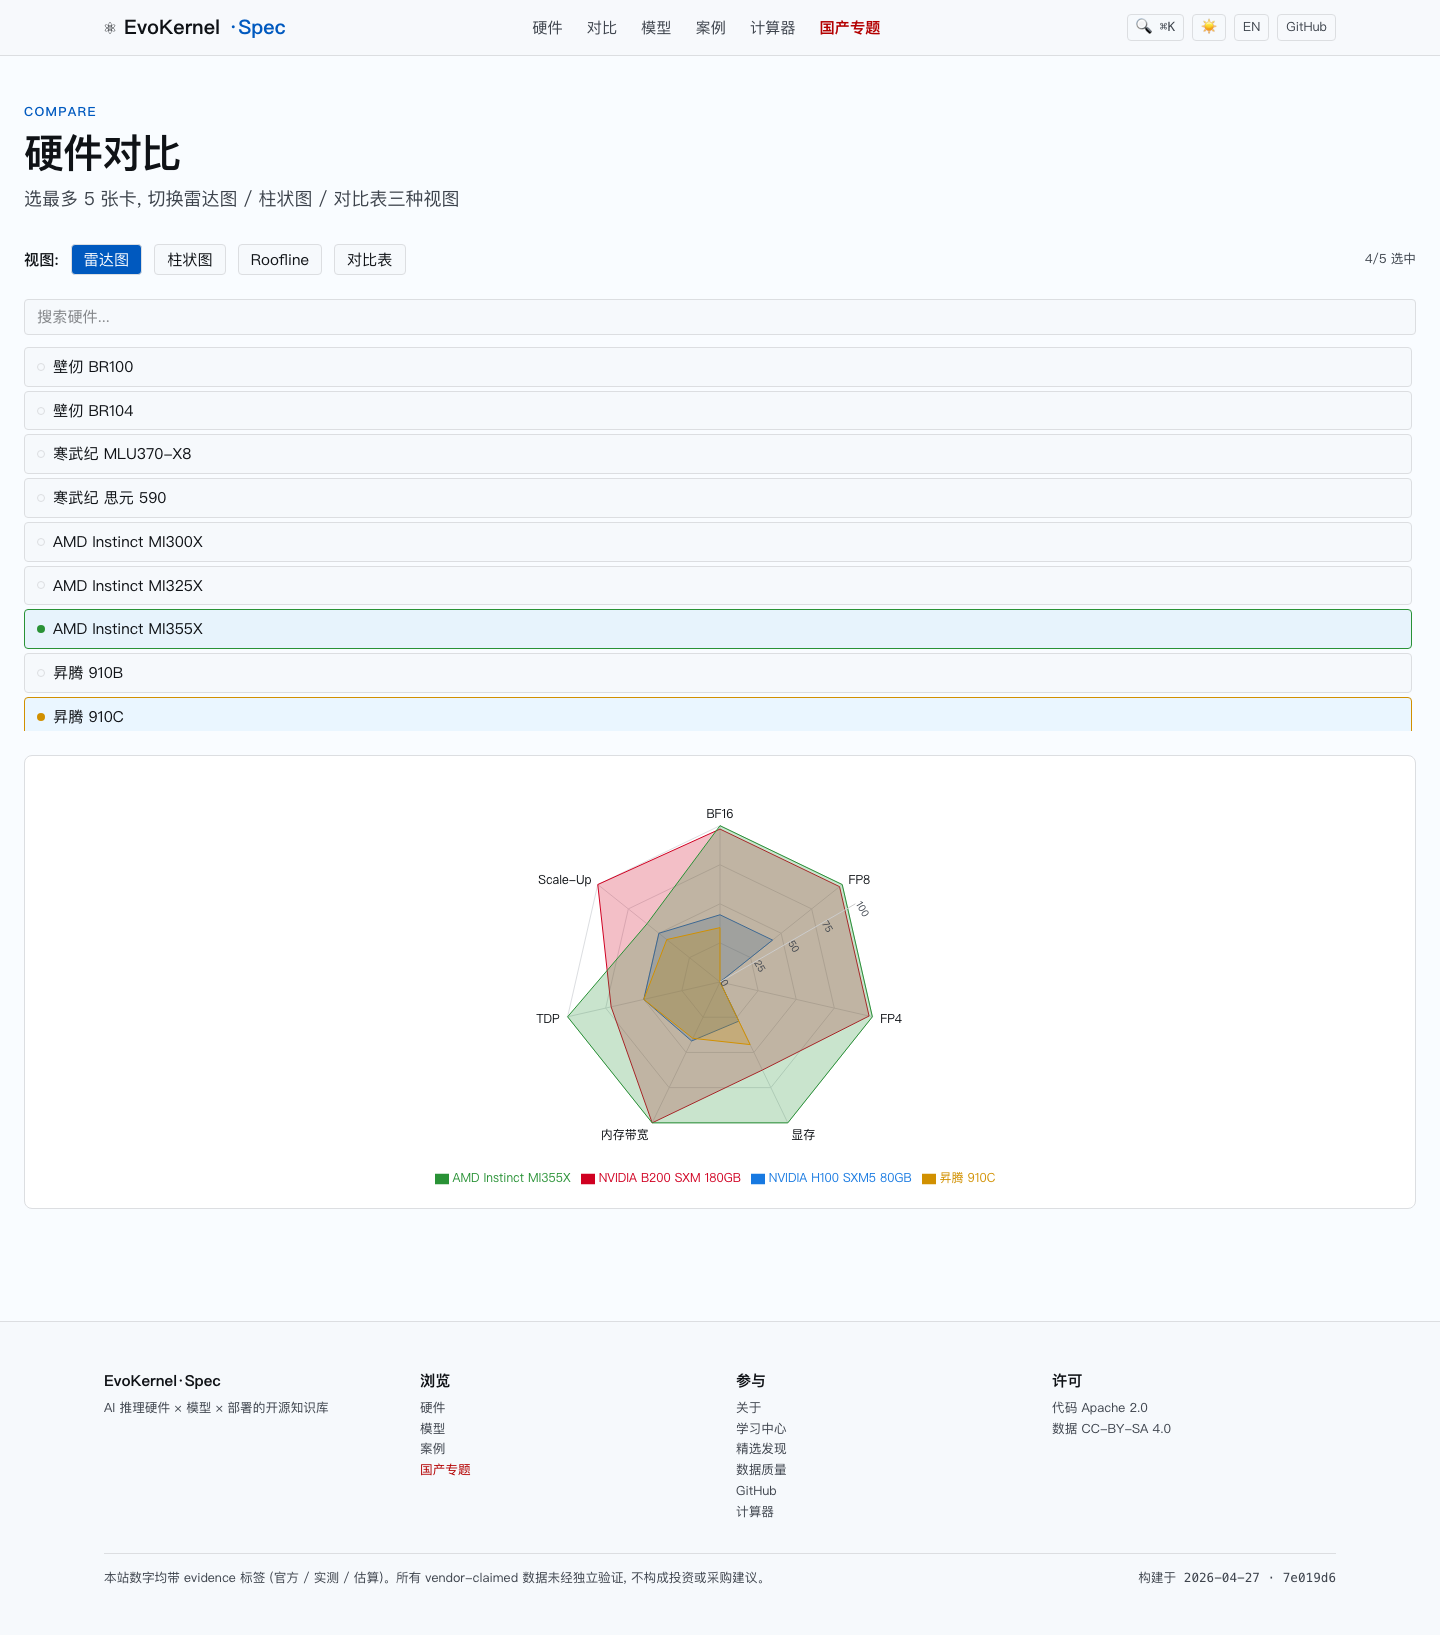
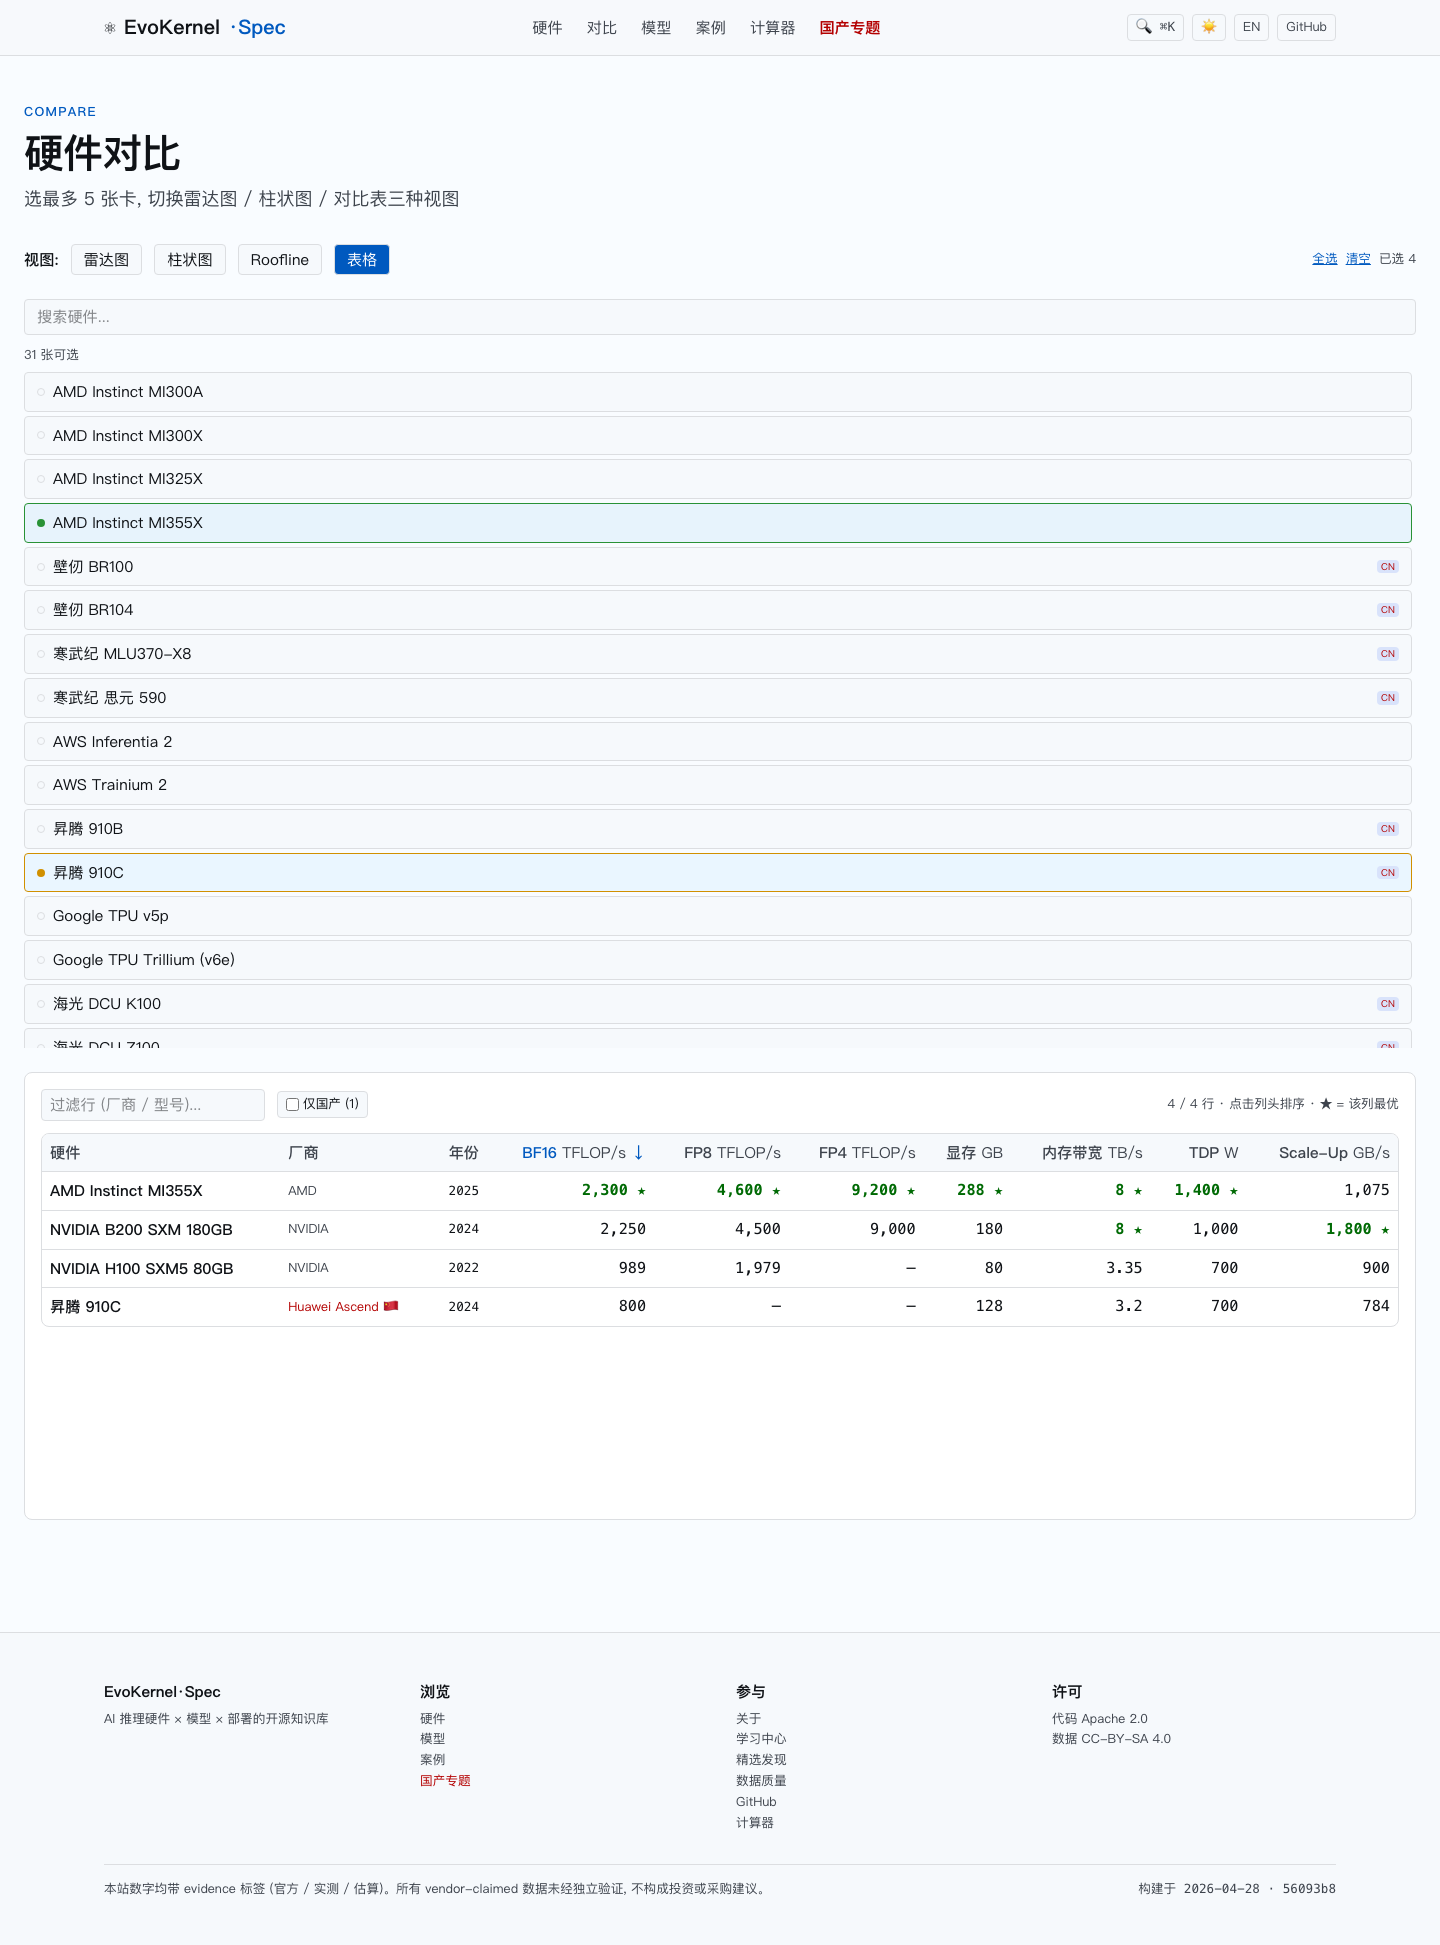
feat: a11y audit (29 routes) + 2 new cases + lighthouse CI cron
A11y audit expansion (was 11 routes → 29 routes):
- Adds detail-page coverage: new HW (mi300a, l40s) + new model (llama-3.3-70b)
  + new server (aws-trn2-ultraserver) + vendor page + ops detail (matmul,
  attention with new fitness panel) + showcase / quality / learn.
- Full /en/ subtree mirrors: home, hardware-list, hardware-detail, calculator,
  cases, compare.
- Two color-contrast violations surfaced + fixed in OperatorCoverage:
  · headroomColor.moderate: oklch(70% ...) → oklch(50% ...)
    (was 2.71:1 vs WCAG AA 4.5:1 for the "Optimization headroom" KPI label)
  · statusColor.partial: var(--color-tier-estimated) → oklch(50% 0.16 80)
    (same issue on 🟡 partial badges per operator card)
- All 29 routes now PASS axe-core wcag2a + wcag2aa checks (no critical / serious).

Cases corpus +2 (data flywheel for new HW):
- Llama 3.3 70B on 8× A100 SXM4 BF16 with vLLM (1480 tok/s decode,
  memory-bandwidth-bound) — gives the new A100 entry a measured calibration
  point.
- Qwen2.5-Coder 32B on 4× L40S FP8 with vLLM (580 tok/s decode, 92% mem-bw util)
  — proves L40S GDDR6 BW is the binding constraint as documented in its
  disclaimers; FP8 quant only +35% (still BW-bound, not compute-bound).
Both cases tagged tier=measured with contributor_attestation.

CI workflow: .github/workflows/lighthouse.yml
- Weekly Mondays 07:00 UTC (1h after the link-check cron).
- Runs `pnpm test:lighthouse` against the freshly-built site.
[…]

diff --git a/apps/web/e2e/visualizations.spec.ts b/apps/web/e2e/visualizations.spec.ts
@@ -4,14 +4,23 @@ test.describe('New visualization features', () => {
   test('compare page with radar / bar / table view toggle', async ({ page }) => {
     await page.goto('/compare/');
     await expect(page.getByRole('heading', { name: /硬件对比/ })).toBeVisible();
-    // Default radar view
-    await expect(page.locator('svg.recharts-surface').first()).toBeVisible();
+    // Default is now table view (per user request: "默认先上来table"); BF16 column header visible
+    await expect(page.getByRole('columnheader', { name: /BF16/ }).first()).toBeVisible({ timeout: 10000 });
+    // Switch to radar (explicit waits to absorb hydration jitter under parallel workers)
+    const radarBtn = page.getByRole('button', { name: '雷达图', exact: true });
+    await radarBtn.waitFor({ state: 'visible', timeout: 10000 });
+    await radarBtn.click();
+    await expect(page.locator('svg.recharts-surface').first()).toBeVisible({ timeout: 10000 });
     // Switch to bar
-    await page.getByRole('button', { name: /柱状图/ }).click();
-    await expect(page.locator('svg.recharts-surface').first()).toBeVisible();
-    // Switch to table
-    await page.getByRole('button', { name: /对比表/ }).click();
-    await expect(page.getByText(/BF16/).first()).toBeVisible();
+    const barBtn = page.getByRole('button', { name: '柱状图', exact: true });
+    await barBtn.waitFor({ state: 'visible', timeout: 10000 });
+    await barBtn.click();
+    await expect(page.locator('svg.recharts-surface').first()).toBeVisible({ timeout: 10000 });
+    // Switch back to table
+    const tableBtn = page.getByRole('button', { name: '表格', exact: true });
+    await tableBtn.waitFor({ state: 'visible', timeout: 10000 });
+    await tableBtn.click();
+    await expect(page.getByRole('columnheader', { name: /BF16/ }).first()).toBeVisible({ timeout: 10000 });
   });
 
   test('topology svg renders on hardware detail (8-card)', async ({ page }) => {

diff --git a/apps/web/e2e/a11y.spec.ts b/apps/web/e2e/a11y.spec.ts
@@ -6,13 +6,32 @@ const routes = [
   '/hardware/',
   '/hardware/h100-sxm5/',
   '/hardware/ascend-910c/',
+  '/hardware/mi300a/',          // new APU; smoke
+  '/hardware/l40s/',             // new GDDR-only card; smoke
   '/models/',
   '/models/deepseek-v4-pro/',
+  '/models/llama-3.3-70b/',      // new dense model
   '/cases/',
+  '/cases/case-llama4-scout-h100x8-vllm-001/',
   '/calculator/',
   '/china/',
   '/about/',
-  '/compare/'
+  '/compare/',
+  '/operators/',
+  '/operators/matmul/',          // new fitness panel
+  '/operators/attention/',
+  '/showcase/',
+  '/quality/',
+  '/learn/',
+  '/servers/aws-trn2-ultraserver/', // new server
+  '/vendors/aws/',
+  // EN mirrors — guard regression on all major routes
+  '/en/',
+  '/en/hardware/',
+  '/en/hardware/h100-sxm5/',
+  '/en/calculator/',
+  '/en/cases/',
+  '/en/compare/'
 ];
 
 for (const route of routes) {
